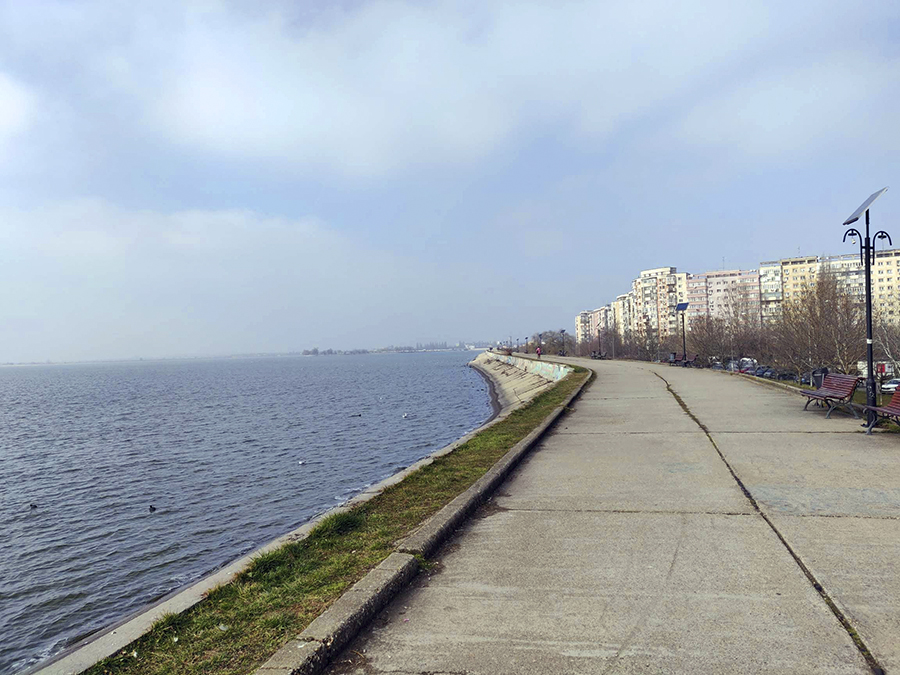
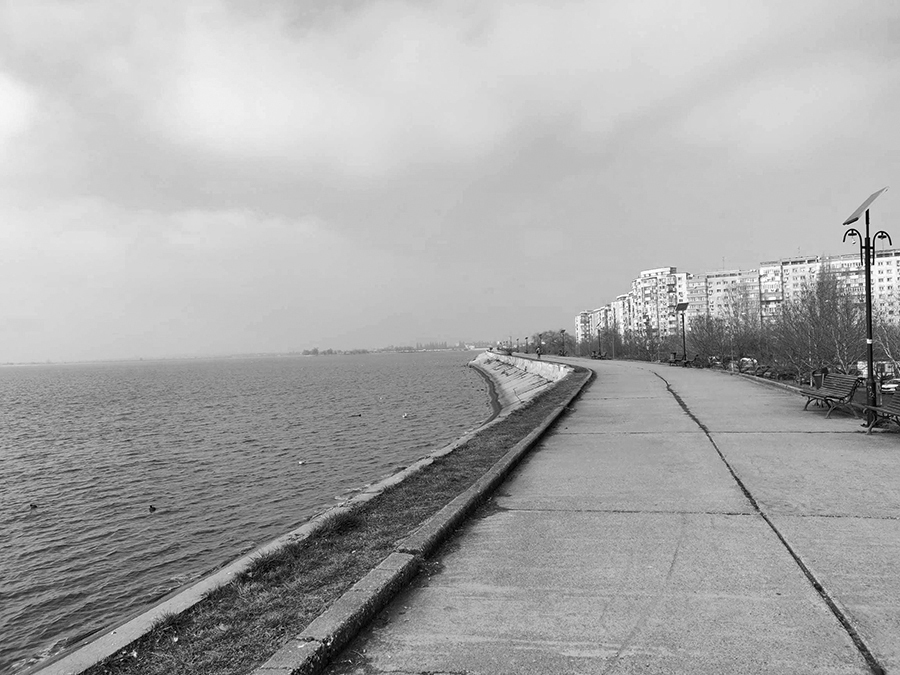
Created the generate image for places option

diff --git a/src/pages/api/places/index.js b/src/pages/api/places/index.js
@@ -2,6 +2,7 @@ import { sendMethodNotAllowed, sendOk } from "../../../../utils/apiMethods";
 import { getCollection } from "../../../../utils/functions";
 import { COLLECTION_NAME } from "./constants";
 import openai from "../../../../lib/openai";
+import { fetchImageUrl, downloadAndSaveImage } from "../../../../utils/downloadImage";
 
 const getPlaces = async (city) => {
     const collection = await getCollection(COLLECTION_NAME);
@@ -39,18 +40,20 @@ export default async function handler(req, res) {
             case "POST":
                 {
                     const { city } = body;
-
                     if (!city) {
                         return res.status(400).json({ message: "City is required" });
                     }
+                    const existingPlaces = await getPlaces(city);
 
-                    const prompt = `Give me 5 interesting, obscure, or unusual places to visit in ${city}. 
+
+                    const prompt = `Give me 15 interesting, obscure, or unusual places to visit in ${city}. 
                                     For each place, provide the following fields in a JSON array of objects:
                                             - name: the name of the place
-                                            - story: a short description
+                                            - story: a 5 to 8 lines description/story/legend of the place
                                             - city: "${city}"
                                             - country: the country the city is in
-                                            - images: an empty array []
+                                            - description: a cool name given to the place based on the story
+                                            - image: a black and white image of the place
                                     The result should be a valid JSON array only. No explanation, no extra text.
 
                                             Example:
@@ -60,7 +63,8 @@ export default async function handler(req, res) {
                                                     "story": "A small museum with a captivating history in shadows blah blah",
                                                     "city": "Berlin",
                                                     "country": "Germany",
-                                                    "images": []
+                                                    "description": "The museum of the shadows.."
+                                                    "image": "images/name_of_the_image.jpg"
                                                 },
                                                 ...
                                             ]`;
@@ -81,11 +85,29 @@ export default async function handler(req, res) {
                     }
 
 
-                    for (const place of places) {
+                    const existingNames = new Set(existingPlaces.map((p) => p.name.toLowerCase()));
+
+                    const uniqueNewPlaces = places.filter(
+                        (place) => !existingNames.has(place.name.toLowerCase())
+                    );
+
+                    for (const place of uniqueNewPlaces) {
+                        const imageUrl = await fetchImageUrl(`${place.name} ${place.city}`);
+                        const safeFileName = `${place.city}-${place.name}`
+                            .toLowerCase()
+                            .replace(/\s+/g, "-")
+                            .replace(/[^a-z0-9-]/g, "");
+                        const localPath = imageUrl
+                            ? await downloadAndSaveImage(imageUrl, `${safeFileName}.jpg`)
+                            : "/images/default.jpg";
+
+                        place.image = localPath;
+
                         await createPlace(place);
                     }
 
-                    return sendOk(res, places);
+                    const finalPlaces = await getPlaces(city);
+                    return sendOk(res, finalPlaces);
                 }
             default:
                 return sendMethodNotAllowed(res, "Method Not Allowed");

diff --git a/src/pages/index.js b/src/pages/index.js
@@ -27,33 +27,59 @@ export default function Home() {
   const [loading, setLoading] = useState(false);
 
   const handleSearch = async () => {
-    if (!city.trim()) {
+    if (!city || !city.trim()) {
       toast.error(t.emptySearchMessage);
       return;
     }
+    console.log("0 - User input city:", city);
+
     setLoading(true);
-    const normalizedCity = await getCityFromAPI(city);
-    const response = await fetch(`/api/places?city=${normalizedCity}`);
-    const data = await response.json();
 
-    if (data && data.data.length > 0 && Array.isArray(data.data)) {
-      setPlaces(data.data);
-    } else {
-      const postResponse = await fetch(`/api/places`, {
-        method: "POST",
-        headers: {
-          "Content-Type": "application/json",
-        },
-        body: JSON.stringify({ city: normalizedCity }),
-      });
-
-      await postResponse.json();
-
-      const retryResponse = await fetch(`/api/places?city=${normalizedCity}`);
-      const retryData = await retryResponse.json();
-      setPlaces(retryData.data || []);
+    let normalizedCity;
+    try {
+      normalizedCity = await getCityFromAPI(city);
+      console.log("1 - Normalized city:", normalizedCity);
+    } catch (error) {
+      toast.error("Could not normalize the city name. Please try again.");
+      setLoading(false);
+      return;
     }
-    setLoading(false);
+
+    if (!normalizedCity) {
+      toast.error("Invalid city name. Please try a different one.");
+      setLoading(false);
+      return;
+    }
+
+    try {
+      const response = await fetch(`/api/places?city=${encodeURIComponent(normalizedCity)}`);
+      const data = await response.json();
+
+      if (data && Array.isArray(data.data) && data.data.length > 0) {
+        setPlaces(data.data);
+      } else {
+        console.log("2 - No places found, requesting POST to generate places for:", normalizedCity);
+        const postResponse = await fetch(`/api/places`, {
+          method: "POST",
+          headers: {
+            "Content-Type": "application/json",
+          },
+          body: JSON.stringify({ city: normalizedCity }),
+        });
+
+        const postData = await postResponse.json();
+        console.log("3 - POST response data:", postData);
+
+        const retryResponse = await fetch(`/api/places?city=${encodeURIComponent(normalizedCity)}`);
+        const retryData = await retryResponse.json();
+        setPlaces(retryData.data || []);
+      }
+    } catch (error) {
+      toast.error("An error occurred while fetching places. Please try again.");
+      console.error("Fetch error:", error);
+    } finally {
+      setLoading(false);
+    }
   };
 
   return (

diff --git a/utils/geocode.js b/utils/geocode.js
@@ -4,7 +4,7 @@ const apiKey = process.env.NEXT_PUBLIC_OPENCAGE_API_KEY;
 
 export const getCityFromAPI = async (city) => {
     try {
-        const response = await axios.get(`https://api.opencagedata.com/geocode/v1/json`, {
+        const response = await axios.get('https://api.opencagedata.com/geocode/v1/json', {
             params: {
                 q: city,
                 key: apiKey,
@@ -12,21 +12,26 @@ export const getCityFromAPI = async (city) => {
             },
         });
 
-        if (response.data.results.length > 0) {
-            const normalizedCity = response.data.results[0].components.city ||
-                response.data.results[0].components.town ||
-                response.data.results[0].components.village;
+        if (response.data && response.data.results && response.data.results.length > 0) {
+            const components = response.data.results[0].components;
+            const normalizedCity = components._normalized_city || components.city || components.town || components.village;
 
-            return normalizedCity;
+            if (normalizedCity) {
+                return normalizedCity;
+            } else {
+                console.warn(`No normalized city found for "${city}". Using original input.`);
+                return city;
+            }
         } else {
-            throw new Error("City not found");
+            console.warn(`No geocoding results for "${city}".`);
+            return city;
         }
+    } catch (error) {
+        console.error('Error fetching city data:', error);
+        throw new Error('Failed to fetch city data');
     }
-    catch (error) {
-        console.error("Error fetching city data: ", error);
-        throw error;
-    }
-}
+};
+
 
 export const getCoordinates = async (place) => {
     const url = `https://api.opencagedata.com/geocode/v1/json?q=${encodeURIComponent(place)}&key=${apiKey}`;

diff --git a/src/components/Card.js b/src/components/Card.js
@@ -42,14 +42,15 @@ export default function Card({ place, onClose }) {
                 >
                     ×
                 </button>
-
-                <Image
-                    src={place.image}
-                    alt={place.name}
-                    className="w-full h-auto max-h-64 object-contain rounded-t-lg"
-                    width={1200}
-                    height={675}
-                />
+                {place.image && place.image.length && place.image.length > 0 ? (
+                    <Image
+                        src={place.image}
+                        alt={place.name}
+                        className="w-full h-auto max-h-64 object-contain rounded-t-lg"
+                        width={1200}
+                        height={675}
+                    />
+                ) : (<></>)}
 
                 <div className="p-6">
                     <h2 className="text-2xl font-bold mb-1">{place.name}</h2>

diff --git a/src/components/MiniCard.js b/src/components/MiniCard.js
@@ -7,12 +7,15 @@ export default function MiniCard({ place, onClick }) {
             onClick={() => onClick(place)}
         >
             <div className="relative w-full h-36 rounded-lg overflow-hidden">
-                <Image
-                    src={place.image}
-                    alt={place.name}
-                    layout="fill"
-                    objectFit="cover"
-                />
+                {place.image && place.image.length && place.image.length > 0 ? (
+                    <Image
+                        src={place.image}
+                        alt={place.name}
+                        layout="fill"
+                        objectFit="cover"
+                    />
+                ) : <></>}
+
             </div>
             <h3 className="font-bold mt-2 text-lg">{place.description}</h3>
             <p className="text-sm text-gray-600 dark:text-gray-400">

diff --git a/utils/downloadImage.js b/utils/downloadImage.js
@@ -1,0 +1,24 @@
+import fs from "fs";
+import path from "path";
+import fetch from "node-fetch";
+
+export async function fetchImageUrl(query) {
+    const apiKey = process.env.PIXABAY_API_KEY;
+    const res = await fetch(
+        `https://pixabay.com/api/?key=${apiKey}&q=${encodeURIComponent(
+            query
+        )}&image_type=photo&colors=grayscale&per_page=3`
+    );
+    const data = await res.json();
+    return data.hits?.[0]?.largeImageURL || null;
+}
+
+export async function downloadAndSaveImage(imageUrl, filename) {
+    const res = await fetch(imageUrl);
+    const buffer = await res.buffer();
+
+    const imagePath = path.join(process.cwd(), "public", "images", filename);
+    fs.writeFileSync(imagePath, buffer);
+
+    return `/images/${filename}`;
+}

diff --git a/src/styles/globals.css b/src/styles/globals.css
@@ -125,6 +125,6 @@ body.dark-mode button:active {
 }
 
 .dark .sticky-header {
-  background-color: #171717 !important;
+  background-color: #121212 !important;
   color: #f5f5f5 !important;
 }
